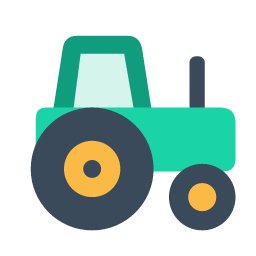
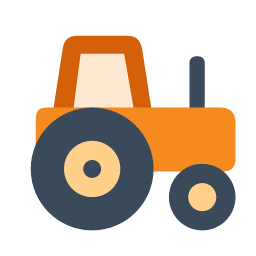
Labores de Finca: tractor del icono en naranja

Changed region(s): [[0.125, 0.125, 0.9375, 0.6875], [0.25, 0.5312, 0.4688, 0.7812], [0.7188, 0.7188, 0.8438, 0.8438]]

diff --git a/finca_labores/__manifest__.py b/finca_labores/__manifest__.py
@@ -1,7 +1,7 @@
 # -*- coding: utf-8 -*-
 {
     'name': 'Labores de Finca',
-    'version': '19.0.1.5.0',
+    'version': '19.0.1.6.0',
     'category': 'Operations',
     'summary': 'Labores por contrato, jornales y trabajos de maquinaria por finca, con saldo por operador',
     'description': """
